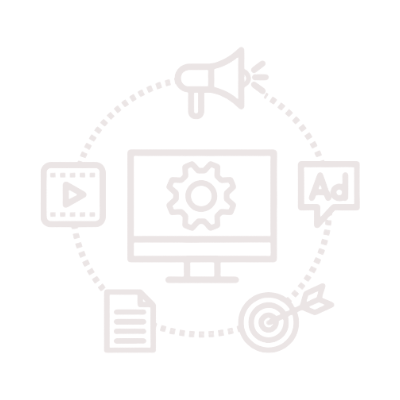
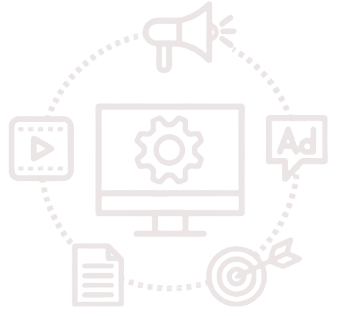
adição do novo serviço e melhoria no espaçamento entre ambos

diff --git a/index.html b/index.html
@@ -145,7 +145,7 @@
 
             <div class="work">
                 <img src="./assents/imagens/video-icon.png" alt="video">
-                <p>Video Maker</p>
+                <p>Videomaker Mobile & Filmmaker</p>
             </div>
 
             <div class="work">
@@ -155,7 +155,7 @@
 
             <div class="work">
                 <img src="./assents/imagens/trafego-icon.png" alt="trafego pago">
-                <p>Trafego Pago</p>
+                <p>Tráfego Pago (Geral ADS)</p>
             </div>
 
             <div class="work">
@@ -165,12 +165,17 @@
 
             <div class="work">
                 <img src="./assents/imagens/identidade-icon.png" alt="Identidade Visual">
-                <p>Identidade Visual</p>
+                <p>Criação de logotipo, Identidade visual & Branding</p>
             </div>
 
             <div class="work">
                 <img src="./assents/imagens/aulas-icon.png" alt="aulas">
-                <p>Aulas Digitais ou Presencias</p>
+                <p>Aulas de Oratória & Desenvolvimento Digital</p>
+            </div>
+
+            <div class="work">
+                <img src="./assents/imagens/curso-icon.png" alt="lançamento de curso">
+                <p>Lançamentos de Cursos Online</p>
             </div>
         </section>
 

diff --git a/assents/css/responsivo.css b/assents/css/responsivo.css
@@ -70,7 +70,17 @@
         height: 100%;
         flex-wrap: wrap;
         padding: 20px;
-        gap: 20px;
+        gap: 30px;
+
+        .work{
+            & img{
+                height: 60px;
+            }
+            & p{
+                width: 100%;
+            } 
+        }
+        
     }
     .icones::before{
         font-size: 70px;
@@ -279,8 +289,8 @@
     .icones{
         height: 100%;
         flex-wrap: wrap;
-        padding: 10px;
-        gap: 5px;
+        padding:20px;
+        gap: 20px 10px;
     }
     .icones::before{
         font-size: 80px;

diff --git a/assents/css/estilos.css b/assents/css/estilos.css
@@ -325,19 +325,19 @@ main{
     height: 200px;
     width:100%;
     background-color: #df003f;
-    gap: 50px;
+    gap: 15px;
 
     .work{
         flex-direction: column;
         gap: 5px;
         z-index: +1;
         & img{
-            height: 100px;
+            height: 70px;
         }
         & p{
             text-align: center;
             font-size: 15px;
-            width: 150px;
+            width: 200px;
         }
     }
 }
